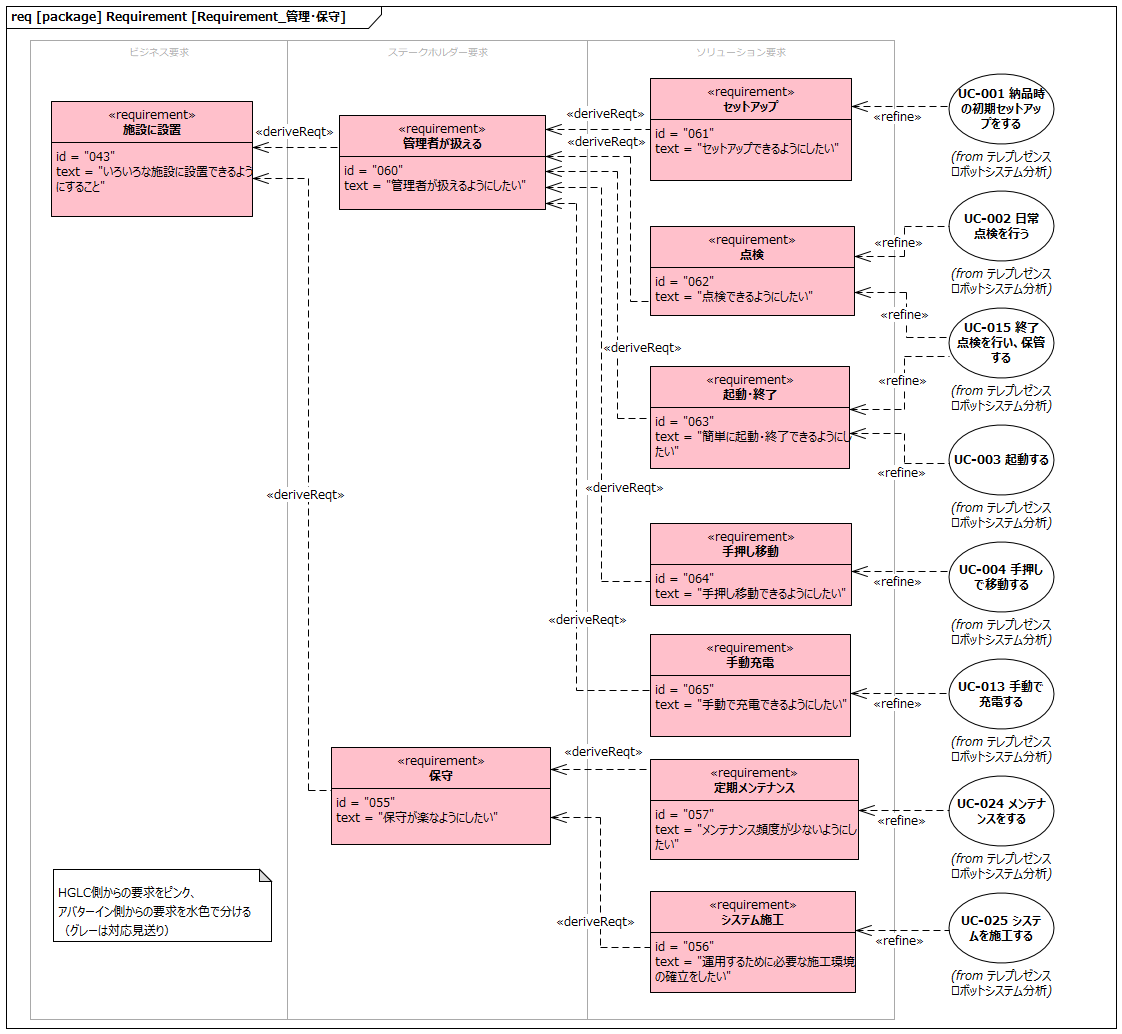
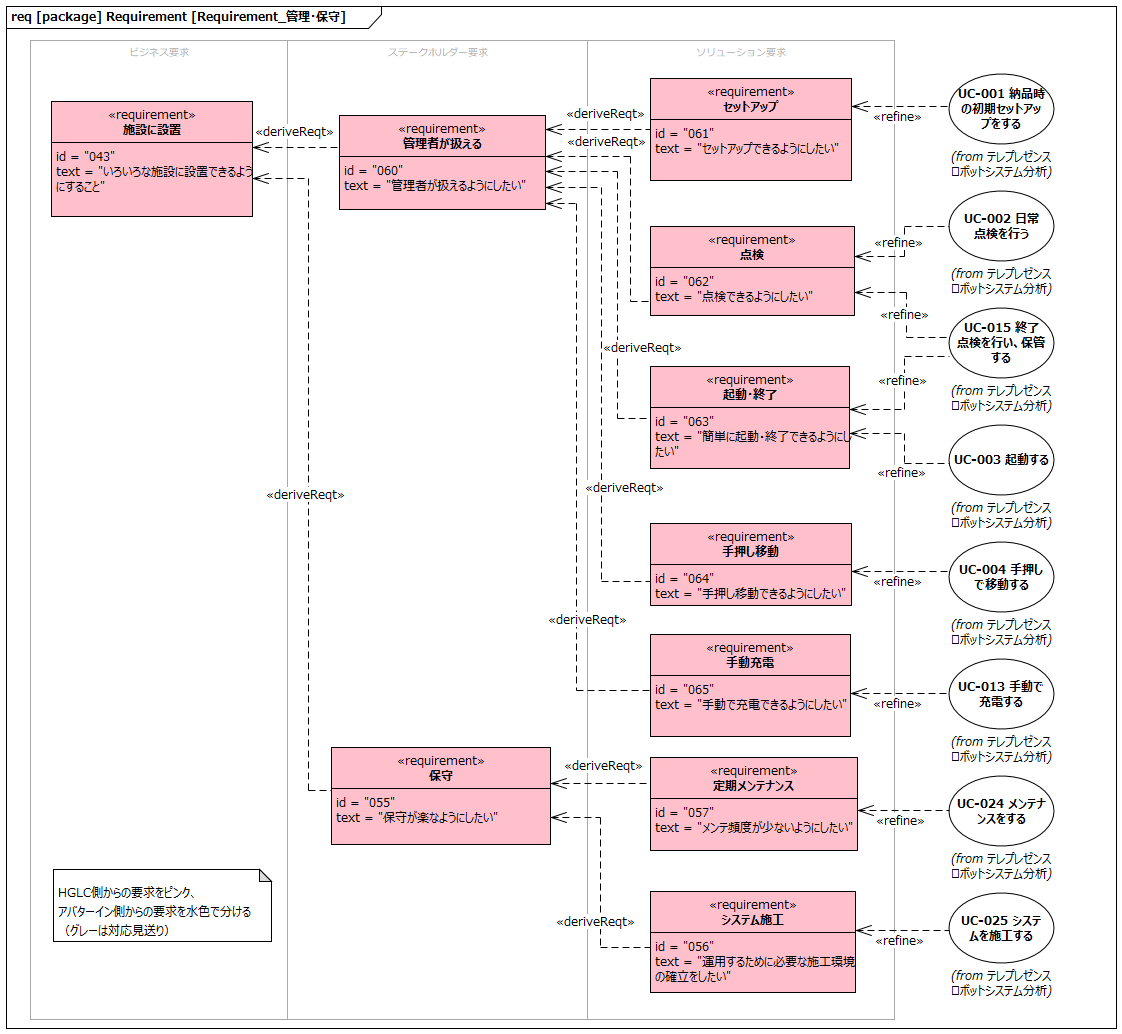
fix reviews

Changed region(s): [[0.5615, 0.7427, 0.8111, 0.8356], [0.4991, 0.7118, 0.5927, 0.7427]]

diff --git a/requirements/requirement.md b/requirements/requirement.md
@@ -2,7 +2,7 @@
 title: テレプレゼンスロボット要求分析
 subtitle: L0/L1要求抽出
 author: 株式会社 豆蔵
-date: 2022年3月22日
+date: 2022年3月25日
 ---
 <!-- ↑表紙ページのための情報 -->
 
@@ -96,7 +96,7 @@ date: 2022年3月22日
 |031|ビジネス|遠隔コミュニケーション|遠隔で自由に動き回りコミュニケーションできるようにすること||
 |032|ステークホルダー|コミュニケーション|コミュニケーションできるようにすること||
 |066|ステークホルダー|使いやすいHMI|使いやすいHMIで使える機体にしてほしい||
-|074|ステークホルダー|コミュニケーションしやすい|使いやすいHMIで使える機体にしてほしい||
+|074|ステークホルダー|コミュニケーションしやすい|コミュニケーションしやすい機体にしてほしい||
 |008|ステークホルダー|視野確保（首振り）|いろいろなものを見物するため、上下、左右に動いてほしい||
 |033|ソリューション|見やすい画面|画面の顔がよく見えるようにすること||
 |034|ソリューション|クリアな音声|音声を聞き取りやすくすること|UC-006で詳細化|
@@ -132,12 +132,12 @@ date: 2022年3月22日
 |021|ソリューション|スリープ|アバターコアをスリープ状態にしてバッテリの節約をしたい||
 |022|ソリューション|自動電源OFF|一定時間操作がなければ電源を切りたい||
 |007|ソリューション|バリアフリー対応|バリアフリー環境での操作はしたい（5度スロープ、段差2cm）||
-|041|ソリューション|屋外走行|屋外を走行できるようにすること||
+|041|ソリューション|屋外走行|屋外（バリアフリー）を走行できるようにすること||
 |028|ソリューション|平面走行|段差、くぼみを避けたい||
 |086|ソリューション|走破性|バリアフリー環境の屋外・屋内路面を走れること||
 |087|ソリューション|対環境性|対環境性を有すること||
 |088|ソリューション|温度対応|5～40℃の環境で稼働できること||
-|089|ソリューション|防水・防塵対応|3mm降雨に対する防水および塵埃・圃場の砂塵に対する防塵対応をすること||
+|089|ソリューション|防水・防塵対応|防水（3mm降雨）・防塵（塵埃圃場の砂塵）対応をすること||
 
 <div style="page-break-before:always"></div>
 
@@ -196,7 +196,7 @@ date: 2022年3月22日
 |063|ソリューション|起動・終了|簡単に起動・終了できるようにしたい|UC-003,UC-015で詳細化|
 |064|ソリューション|手押し移動|手押し移動できるようにしたい|UC-004で詳細化|
 |065|ソリューション|手動充電|手動で充電できるようにしたい|UC-013で詳細化|
-|057|ソリューション|定期メンテナンス|メンテナンス頻度を少ないようにしたい|UC-024で詳細化|
+|057|ソリューション|定期メンテナンス|メンテ頻度を少ないようにしたい|UC-024で詳細化|
 |056|ソリューション|システム施工|運用するために必要な施工環境の確立をしたい|UC-025で詳細化|
 
 <div style="page-break-before:always"></div>
@@ -221,7 +221,7 @@ date: 2022年3月22日
 |073|ステークホルダー|アバターコアに適合|アバターコアに適合した機体にすること||
 |072|ステークホルダー|事業性|事業性のある価格の機体にしてほしい||
 |086|ステークホルダー|残項目ミニマム|DRの残項目をミニマムにすること||
-|053|ステークホルダー|ライフサイクルコスト低減|ライフサイクルコストを安いようにしたい||
+|053|ステークホルダー|ライフサイクルコスト低減|ライフサイクルコストが安いようにしたい||
 |067|ステークホルダー|リーズナブル|リーズナブルな料金で使える機体にすること||
 |019|ソリューション|電源スイッチ|実機の電源スイッチを1つに統一したい(MiimoMainECUとアバターコアのスイッチ統一)||
 |020|ソリューション|電源管理|MiimoMainECU側でアバターコアの電源ON・OFFをしたい||
